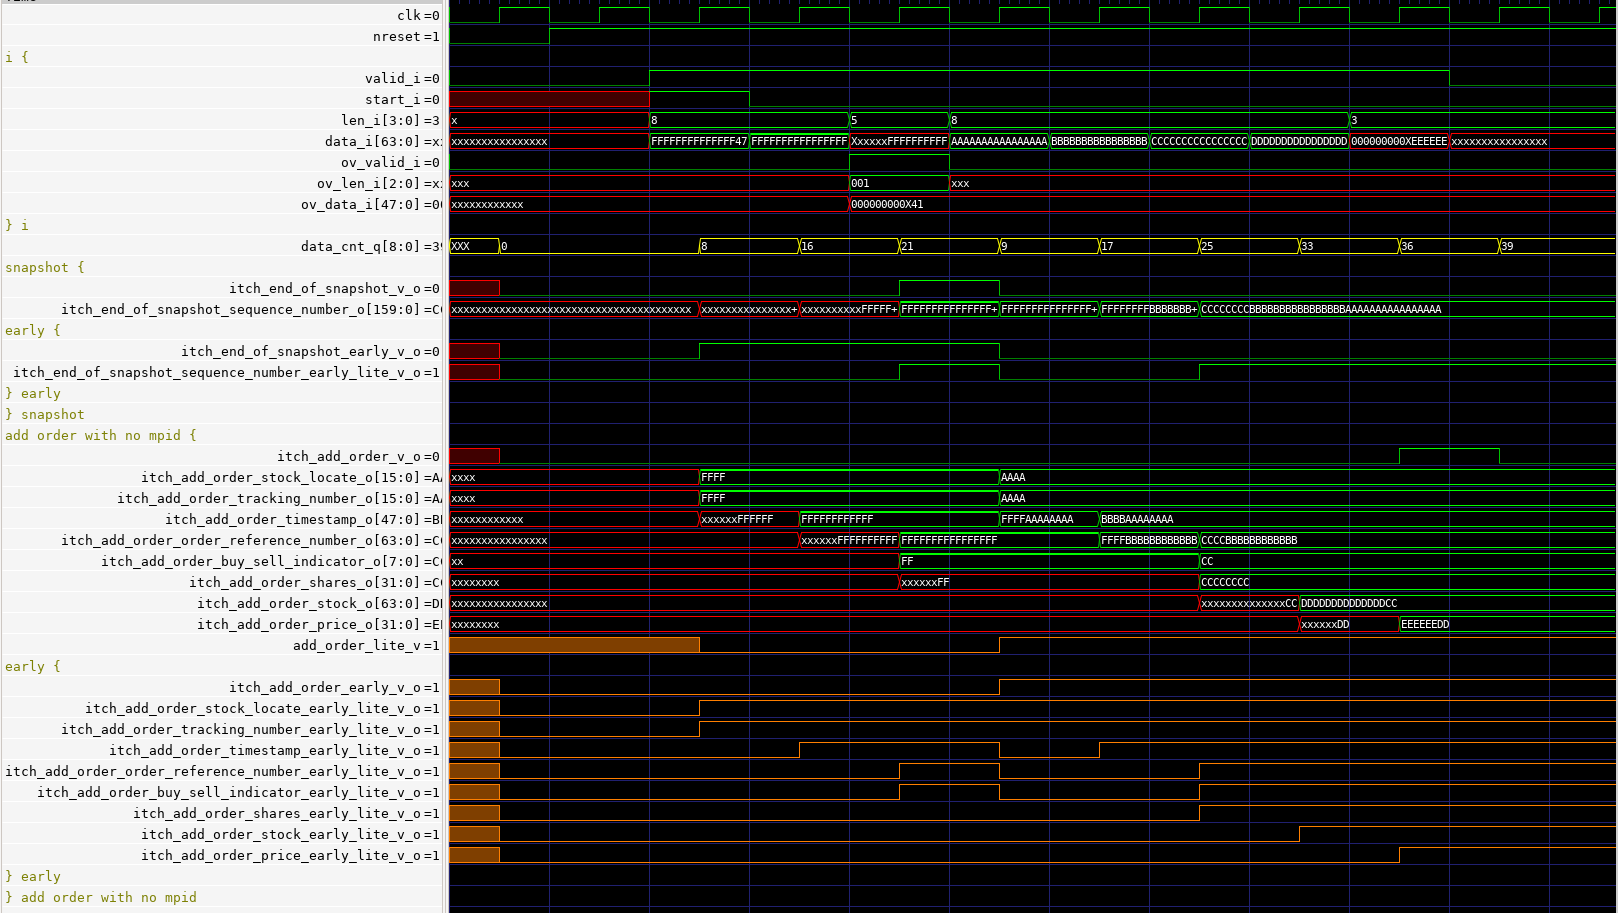
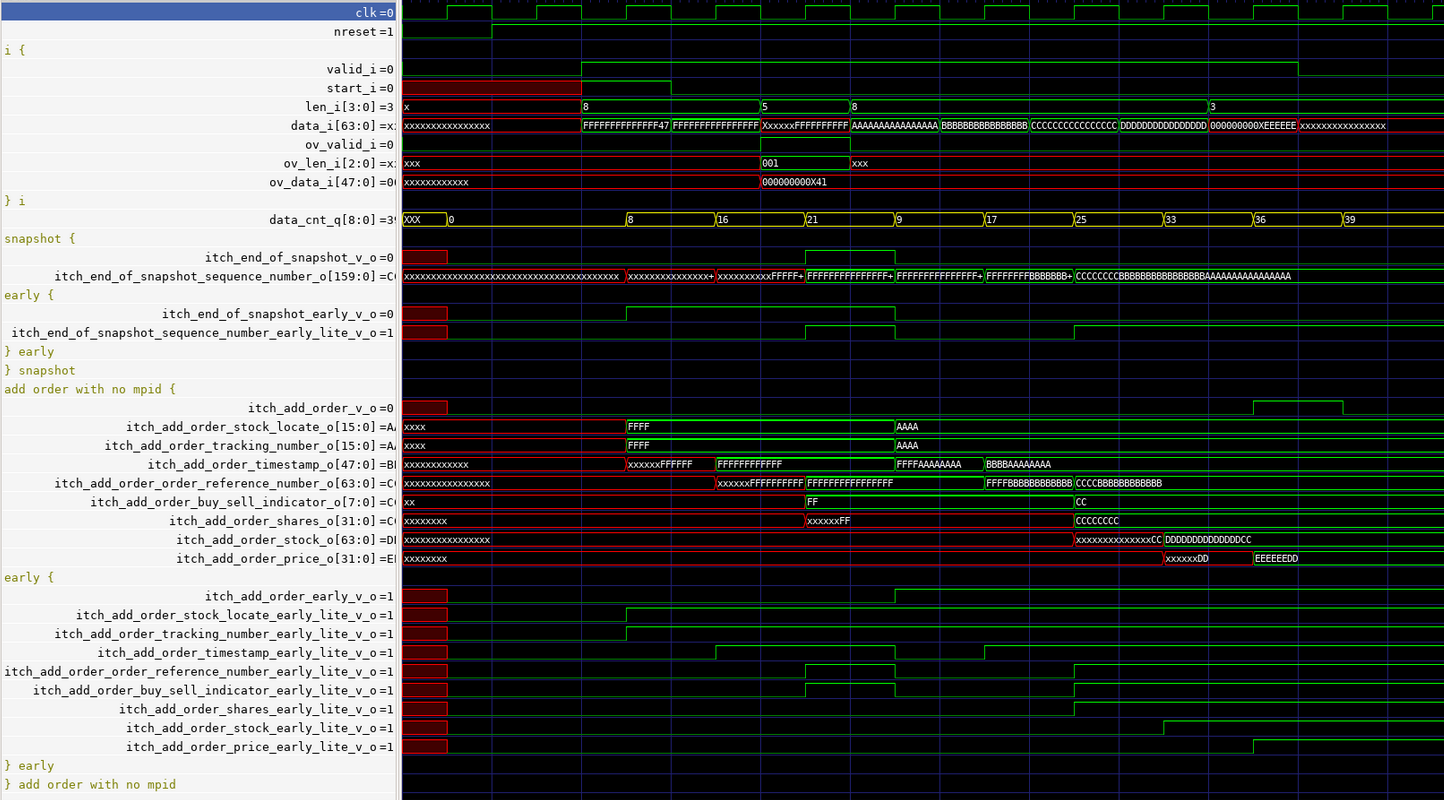
ITCH: Fixed hugo syntax causing an error, update wave and wrong ms index for add order message

diff --git a/content/hft/itch.md b/content/hft/itch.md
@@ -64,7 +64,7 @@ For examples, the `System Event` message used to signal a market or data feed ha
 {{< figure
     src="itch/system_event_msg.svg"
     alt="example message"
-    caption=`System Event` message formal, part of `NASDAQ`'s `TotalView-ITCH` version `5.0`"
+    caption="`System Event` message formal, part of `NASDAQ`'s `TotalView-ITCH` version `5.0`"
 >}}
 
 The fields can be of the one of the following four types :
@@ -249,9 +249,9 @@ output logic [<field length>-1:0] itch_<message_type>_<field_name>_o,
 output logic [<field length>-1:0] itch_<message_type>_<field_name>_o, 
 ```
 
-- `itch_\<message_type\>_v_o` : valid signal, a message of `\<message_type\>` has
+- `itch_<message_type>_v_o` : valid signal, a message of `<message_type>` has
     been fully received
-- `itch_\<message_type>\_\<field_name\>_o` : message field
+- `itch_<message_type>_<field_name>_o` : message field
  
 ##### Early interface
 
